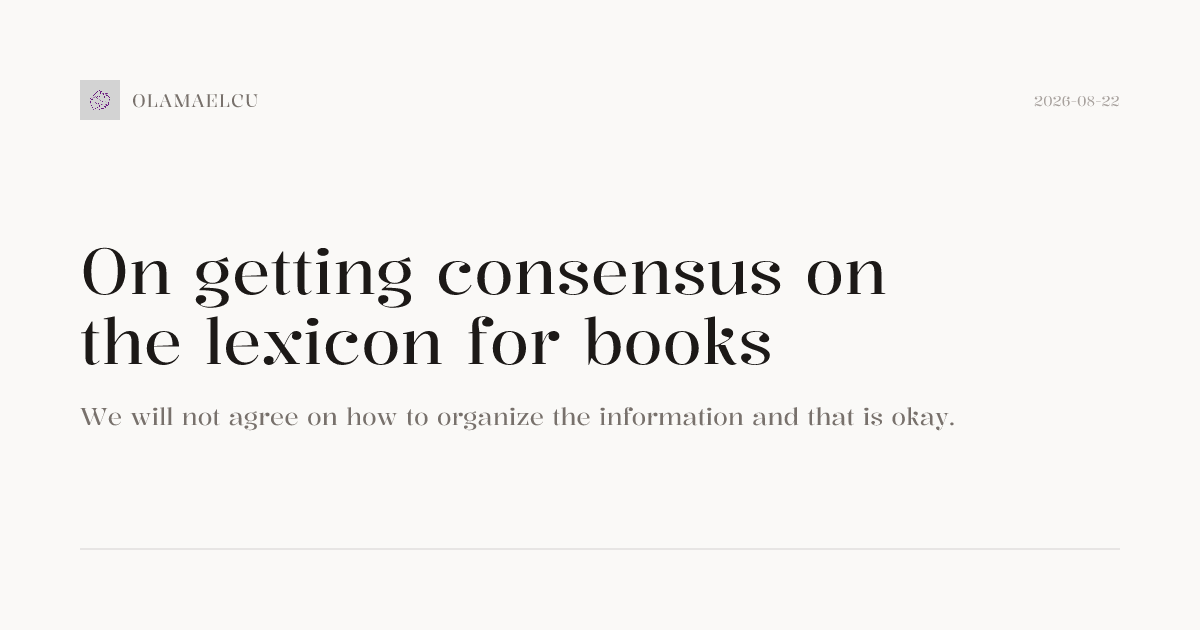
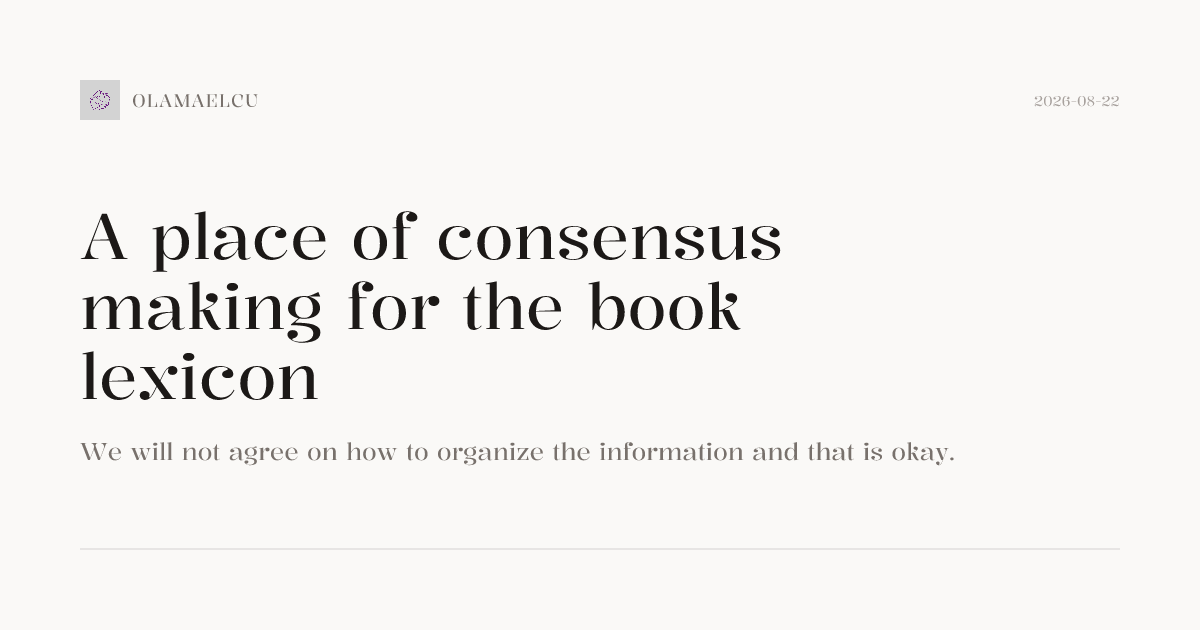
add sponorship link

Changed region(s): [[0.0617, 0.3317, 0.8017, 0.754]]

diff --git a/src/lib/analytics.ts b/src/lib/analytics.ts
@@ -1,33 +1,26 @@
-import { onMount } from 'svelte';
 import { browser } from '$app/environment';
-import { env } from '$env/dynamic/public';
 
-let initialized = false;
+const PLAUSIBLE_HOST = 'https://analytics.olamaelcu.net';
+const PLAUSIBLE_SCRIPT_SRC = `${PLAUSIBLE_HOST}/js/pa-TTVv8bb2GLT0YqfR7pxuF.js`;
+
+let injected = false;
 
 export function initPlausible() {
-	if (!browser) return;
-	if (initialized) return;
+	if (!browser || injected) return;
+	injected = true;
 
-	onMount(async () => {
-		if (!browser) return;
-		if (initialized) return;
+	const script = document.createElement('script');
+	script.async = true;
+	script.src = PLAUSIBLE_SCRIPT_SRC;
+	document.head.appendChild(script);
 
-		const domain = env.PUBLIC_PLAUSIBLE_DOMAIN;
-		if (!domain) {
-			console.warn('PUBLIC_PLAUSIBLE_DOMAIN not set, skipping Plausible init');
-			return;
-		}
-
-		const { init } = await import('@plausible-analytics/tracker');
-		init({ domain });
-		initialized = true;
-	});
+	const shim = document.createElement('script');
+	shim.text =
+		'window.plausible=window.plausible||function(){(plausible.q=plausible.q||[]).push(arguments)},plausible.init=plausible.init||function(i){plausible.o=i||{}};plausible.init()';
+	document.head.appendChild(shim);
 }
 
 export function trackEvent(eventName: string, props?: Record<string, unknown>) {
-	if (!browser) return;
-
-	// Use window.plausible if available (set by bindToWindow: true)
 	if (typeof window !== 'undefined' && (window as any).plausible) {
 		(window as any).plausible(eventName, { props });
 	}

diff --git a/svelte.config.js b/svelte.config.js
@@ -27,7 +27,7 @@ const config = {
 			mode: 'auto',
 			directives: {
 				'default-src': ["'self'"],
-				'script-src': ["'self'", 'https://plausible.io'],
+				'script-src': ["'self'", 'https://analytics.olamaelcu.net'],
 				'style-src': ["'self'", "'unsafe-inline'"],
 				'img-src': ['self', 'data:', 'https://cdn.bsky.app', 'https://avatar-cdn.bsky.app'],
 				'font-src': ["'self'"],
@@ -35,7 +35,7 @@ const config = {
 					'self',
 					'https://o428404.ingest.us.sentry.io',
 					'https://public.api.bsky.app',
-					'https://plausible.io',
+					'https://analytics.olamaelcu.net',
 					'https://ka-f.fontawesome.com'
 				],
 				'worker-src': ["'self'", 'blob:'],

diff --git a/src/routes/privacy/+page.svelte b/src/routes/privacy/+page.svelte
@@ -38,8 +38,9 @@
 	cookies through your browser at any time.
 </p>
 <p>
-	<strong>Analytics:</strong> This site uses Plausible Analytics, a privacy-first analytics service
-	that does not use cookies and does not collect personal data. For more details, visit
+	<strong>Analytics:</strong> This site uses self-hosted Plausible Analytics, running at
+	analytics.olamaelcu.net. It is a privacy-first analytics service that does not use cookies and
+	does not collect personal data. For more details, visit
 	<a href="https://plausible.io/privacy-friendly-web-analytics">Plausible's Privacy Policy</a>.
 </p>
 

diff --git a/src/routes/about/support/+page.svelte b/src/routes/about/support/+page.svelte
@@ -19,6 +19,7 @@
 	Jacky's <a href="https://www.paypal.com/paypalme/jalcine">Paypal</a>. Anything helps! The goal is
 	to raise $0/2,000 of monthly support.
 </p>
+<p>You can also support Jacky directly via <a href="https://github.com/sponsors/jalcine">GitHub's sponsorship program</a>.</p>
 <p>
 	<progress value="0"></progress>
 </p>
